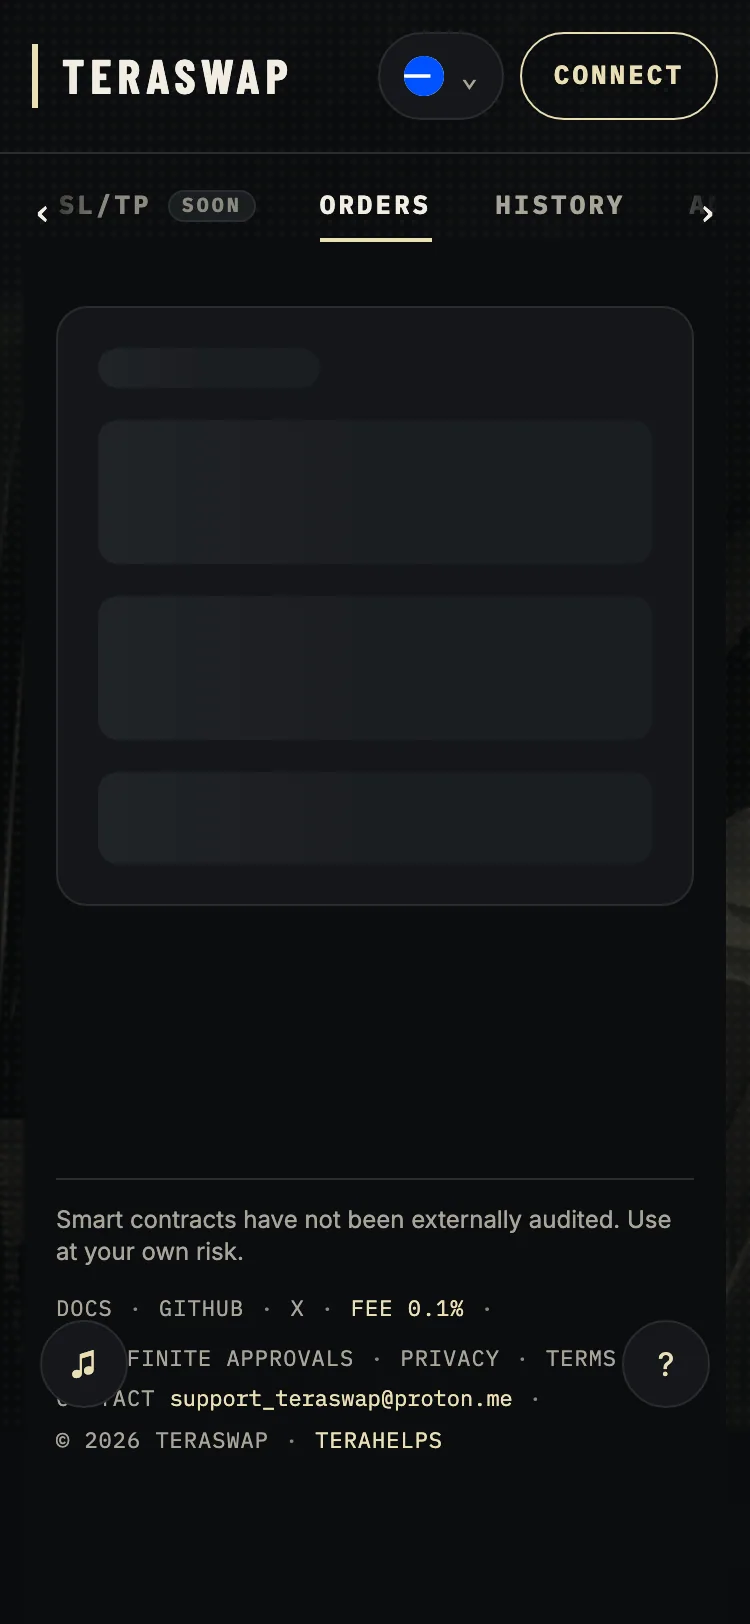
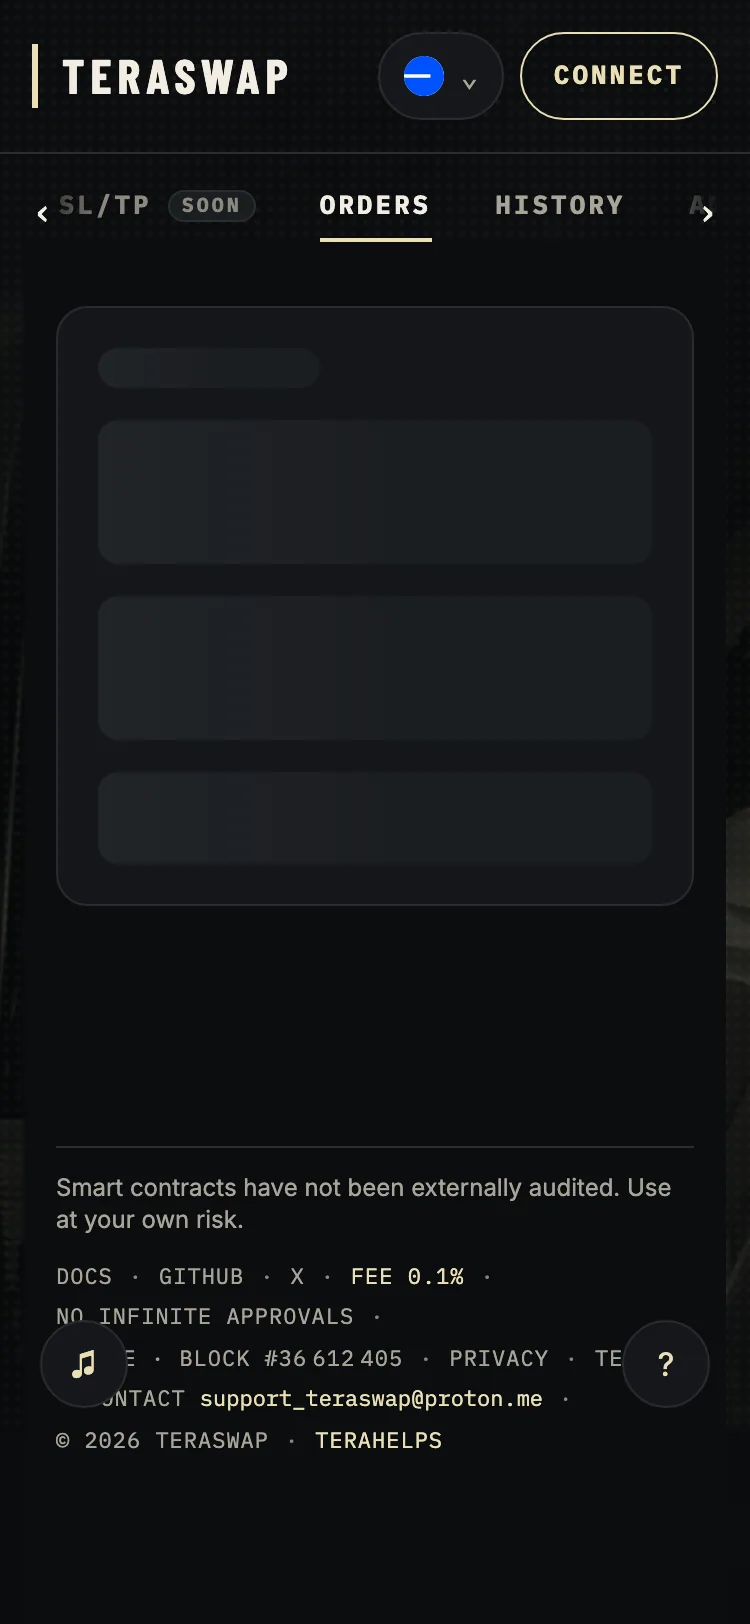
docs(feedback): one-screen feedback, Base/Arbitrum footer evidence, suite vs current origin/main
Feedback trimmed to one screen + content-map delta (decision log moved to feat-ui-v2-shell/NOTES.md).
Screenshots retaken so Base and Arbitrum show their own footer block (the earlier env hit v1's CSP connect-src).
Suite/lint/tsc now also run on origin/main 90eee44 and on its merge with this branch (334 files / 5263 tests).
Arbitrum DCA text: owner chose to derive from isDcaLive.

Changed region(s): [[0.0613, 0.7081, 0.8893, 0.8929]]

diff --git a/docs/feedback/feat-ui-v2-shell.md b/docs/feedback/feat-ui-v2-shell.md
@@ -1,45 +1,35 @@
 # feat/ui-v2-shell — FEEDBACK
-Off origin/main `d4b43db` (B0 #606 merged; `src/ui/v2/version.ts` present). Commits: `a0d2cf3` shell · `a7ac5c5` photos+fonts · `d9ef690` sounds+proxy+mobile · `7bc0079` footer/fab fix.
-- [x] C1 · [x] C2 · [x] C3 · [x] verify · [x] evidence 1–7 · Raw outputs + screenshots: `docs/feedback/feat-ui-v2-shell/`
+Off `d4b43db` (B0 merged). Commits `a0d2cf3` shell · `a7ac5c5` photos+fonts · `d9ef690` sounds+proxy+mobile · `7bc0079` fab fix. Files: `feat-ui-v2-shell/` (details: `NOTES.md`).
+- [x] C1 · [x] C2 · [x] C3 · [x] verify · [x] evidence 1–7
 
-## Owner answers (asked; supersede the goal text) and decisions
-- **Route file:** `/<tab>` → `/v2/<tab>` needs a page → ONE generic `src/app/v2/[tab]/page.tsx` (+test) added; the only file outside `src/ui/v2/**`/proxy/feedback.
-- **v1 proof = module-identical, not file-identical.** The shell shares wagmi/RainbowKit + v1 hooks (goal-mandated), so Turbopack regroups chunks.
-  Measured: 0 v2 markers in any chunk any static v1 page loads; v1 source diff empty; route table = base + `/v2/[tab]`; initial JS Δ ≤ +605 B raw /
-  +939 B gz per page (`/status`,`/admin` ±0). **Correction to my question:** I said "same modules" — precisely, 1–4 small modules (e.g. `ChainIcon`,
-  wagmi `useBlockNumber`) moved into initial chunk sets and some bodies re-concatenate (`v1-module-sets.txt`). File names differ → v1 users re-download.
-- **Arbitrum DCA is dark** → dropdown subtitle + Ethereum DCA gate are driven by `isDcaLive`/`dcaLiveChainNames()`: today Arbitrum "Swap", gate "DCA runs on Base."; flips to the spec text with no edit once live.
-- `useQuoteChainId` lives in `src/hooks/useChainId.ts`. Out-of-list reads (none edited): `app/{page,swap/page,providers,layout}`, `ChainSelector`, `ChainIcon`, `lib/{chains/registry,format,constants,help-content}`, `order-engine/limit-launch`, `useOrderNotifications`, `next.config.js`, `tailwind.v2.config.ts`.
-- Root `providers.tsx` also mounts v1 `ToastProvider` + `BackgroundMusic` around `/v2` → v2 ships its own toast provider (same API) + `music.ts`; v1's ♫ is hidden under v2 by aria-label selector (pinned by test).
+**Owner answers (supersede goal):** one route file `src/app/v2/[tab]/page.tsx` · v1 proof = module-identical (not byte) · Arbitrum text derives from `isDcaLive`.
 
-## Evidence
-1. **Screenshots** (prod build, gate on; RPC mocked with the pack's sample blocks; `*.webp` here): desktop `d1` header/tabs/footer · `d2` dropdown · `d3` tabs Ethereum (DCA gate) vs `d4` Base · `d5` Arbitrum · `d6` help · `d7` connect (RainbowKit themed); 375: `m1` `m2` dropdown `m3` Ethereum DCA `m4` active tab in view (scrollLeft 431/774, fully visible, fade L on / R off) `m5` Base `m6` footer `m7` help. Base/Arbitrum footer block did not render in this env (no reachable chain RPC → hidden, never mainnet's); per-chain block + explorer is unit-tested.
-2. **Content-map delta** below (v2 ⊇ v1 except landing-only nav and theme toggle, by design).
-3. **Photos** 4 × (AVIF+WebP)×(1080,1920) = 16 files, max 197 204 B (test ≤ 200 000 B; `underpass-1920.webp` 203 178 → 191 292 B re-encoded q70); `credits.json`: Evenden/Willbone/Dyllong/Gökdeniz, Pexels; `<picture>` AVIF + next/image WebP, eager+`fetchPriority=high` (next/image `priority` would preload the WebP, double download). Veil 0.45 / band 96 px tokens. Plates #0B0D0F@92%: body min 4.61 (dim on plate over white; 5.35 over graded photo), large min 6.54; hero text on photo 7.44 (`contrast-plates.txt`).
-4. **Fonts** `pyftsubset` (fontTools 4.62.1, venv outside repo, no dep; Sonatype MCP unreachable): Barlow Bold 104 316→16 180 B · Plex Regular 133 796→10 612 · Medium 134 956→10 608 · Bold 136 008→10 628 (509 076→48 028 B; all ≤ 60 KB).
-5. **Sound parity** (real `sounds.ts`, mocked `Audio`; `sound-parity-results.txt`): tab click = `playTouchMP3` (touch.mp3 0.5) · first click/key/scroll = `startBackgroundMusic` (0.08, loop, once) · ♫ off/on = `toggleBackgroundMusic` (pause / restart) · ♫ only toggles music (tab sound still plays muted) · help/network/connect = silent · waiting/quote-received/confirm/cancel not imported by the shell (B3/B5).
-6. **Proxy** 65 tests (matrix ×8 tabs: no env/forged/secret-less cookie → v1 untouched; env/valid cookie → `/v2/<tab>`; direct `/v2/*` → `/v2-disabled`). Real server, gate off: `/v2`, 8 × `/v2/<tab>`, `/v2/_kit`, forged cookie → **HTTP 404**; v1 `/ /swap /analytics /docs` 200, no v2 marker; gate on: 8 tab paths 200 (`proxy-404-proof.txt`). Caught by the build, not unit tests: `config.matcher` must be literals (spread rejected) → literal + drift test.
-7. **Verify** (vs merge-base build): suite 331 files / 5231 tests ✓ (base 323 / 5045) · lint 93 = 93 · tsc 0 · `npm run build` ✓ · `check:*` ×5 ✓ · `git diff --stat`: 57 files `src/ui/v2/**`, proxy(+test), `src/app/v2/[tab]` (owner-approved), feedback; nothing in v1. First parallel suite run hit one flaky `usePortfolio` test (passes 3/3 alone; 0 hook changes). Not run: Playwright e2e, security-review. Compare: https://github.com/TeraHashAlpha/teraswap/compare/main...feat/ui-v2-shell (no PR; CI runs once the owner opens it).
+1. **Screenshots** (`*.webp`; prod build, RPC mocked): desktop d1 header/tabs/footer, d2 dropdown, d3 Ethereum vs d4 Base tabs, d5 Arbitrum, d6 help, d7 connect;
+   375 m1–m7 (m4: active tab in view, scrollLeft 431/774, fade L on/R off). Footer block follows the selected chain: d1 `ETHEREUM · BLOCK #23 541 870`, d4 `BASE · …36 612 405`, d5 `ARBITRUM ONE · …389 204 117`.
+2. **Content-map delta** below: v2 ⊇ v1 except landing-only nav and the theme toggle (by design).
+3. **Photos** 16 files (4 × AVIF/WebP × 1080/1920), max 197 204 B, test ≤ 200 000 B; credits.json (Evenden, Willbone, Dyllong, Gökdeniz / Pexels).
+   Plates #0B0D0F@92%: body ≥ 4.61, large ≥ 6.54, hero on photo 7.44 (`contrast-plates.txt`). Veil 0.45 + band 96 px are tokens.
+4. **Fonts** `pyftsubset` (fontTools 4.62.1, outside repo): Barlow 104 316→16 180 B · Plex 133 796→10 612 · 134 956→10 608 · 136 008→10 628 (all ≤ 60 KB).
+5. **Sound parity** (real `sounds.ts`, mocked Audio): tab click=`playTouchMP3` · first click/key/scroll=`startBackgroundMusic` 0.08 loop · ♫=`toggleBackgroundMusic` only · others silent.
+6. **Proxy** 65 tests. Real server, gate off: `/v2`, 8×`/v2/<tab>`, `/v2/_kit`, forged cookie → **404**; v1 pages 200; gate on: 8 tab paths 200 (`proxy-404-proof.txt`).
+7. **Verify** vs origin/main `90eee44` (326 files/5077 tests): merged result 334/5263 ✓ clean merge · lint 93=93 · tsc 0 · `npm run build` ✓ · `check:*`×5 ✓ ·
+   diff: 57 files `src/ui/v2/**`, proxy(+test), `[tab]` route, feedback; nothing in v1. v1: 0 v2 code in v1 chunks, Δ initial JS ≤ +605 B (chunk names differ; `NOTES.md`).
+   Compare: https://github.com/TeraHashAlpha/teraswap/compare/main...feat/ui-v2-shell (no PR).
 
-## Concerns / owner notes
-- Shared hooks calling v1 `useToast` in v2 pages (B3+) show v1-styled toasts; use `useV2Toast`. `sounds.ts` has no "enabled" getter: opening v2 after muting on a v1 page shows ♫ "on" (display only).
-- Env (screenshots only): placeholder `NEXT_PUBLIC_*` (WC id, FeeCollectors, DCA flag, `.invalid` RPCs) at build; nothing committed. `next dev` rewrites `AGENTS.md`; restored, not committed.
-- New strings beyond pack/v1: aria-labels ("Turn music off/on", "Dismiss notification", "Open help", "Networks"). Pack's 2nd footer sentence ("Provided “as is”…"), 180 ms toast motion and "Meta-Aggregator" tagline (now sr-only) are open for the owner.
-- Dropdown shows v1's "Soon" chip for a chain without a FeeCollector (env-driven) — truthful in Preview envs lacking the Base/Arbitrum vars.
+Open for owner: pack's 2nd footer sentence · 180 vs 160 ms toast · tagline now sr-only · v1 `useToast` vs `useV2Toast` in B3+ (see `NOTES.md`).
 
 ## Content-map delta (v1 → v2)
-| v1 element (file) | v2 | Note |
-|---|---|---|
-| Logo "TERASWAP" + tagline "Meta-Aggregator" (Header) | logo link `/`, tagline `sr-only` | pack 01 has no visible tagline |
-| Landing nav Performance/Security/Experience/Features/Docs, mobile ☰, "My Analytics" (Header `showNav`, landing only) | not in app shell | landing header = later block; Analytics is a tab |
-| ThemeToggle | removed | dark only (D3) |
-| ChainSelector: icon, name, ▾, search, listbox, ✓, "Soon" chip, mobile sheet | NetworkMenu: icon, name, ⌄, subtitle, ✓, "Soon" chip | search removed (pack r3 A2) |
-| Connect / `displayName` + green dot | same; ENS or lowercase `0x…4`+`…`+4 | pack number spec |
-| WalletModal: ENS name/avatar, address+copy, balance, network, Connected via, Explorer/DeBank/Copy, Disconnect | AccountPanel: all of these; network = selected chain | v1 hardcodes "Ethereum Mainnet"; identicon ring + brand micro-footer dropped (decor) |
-| Footer: Docs · GitHub · X · Fee · No infinite approvals · `<chain> · Block #N` (explorer) · Privacy · Terms · Contact · © · TeraHelps · risk line | all present, same hrefs/aria; Contact shows the address; "Fee 0.1%" (no colon) | block = selected chain, 12 s poll, hidden tab paused |
-| Risk line | `Smart contracts have not been externally audited. Use at your own risk.` | verbatim, test = v1 const = literal |
-| ModeTabs 8 modes, "Soon" via `isLimitLive` | 8 tabs, "Soon" only Limit/SL-TP via `isLimitLive`; DCA never "Soon" | Ethereum DCA gate (pack 30a) |
-| BackgroundMusic ♫ (↔ ✕), HelpButton "?" + HelpDrawer (6 sections, X, support) | ♫ + "?" + drawer (same `helpSections`, pack labels "Email support"/"@TeraHash on X", search) | v1 ♫ hidden under v2 |
-| ToastProvider (5 types, 5-cap, Etherscan link) | V2ToastProvider (same API, max 3 visible per pack 05, chain-aware "View on explorer ↗") | |
-| NotificationBanner | NoticeBanner (same hook + copy) | |
-| BetaBanner / BetaDisclaimer | not carried | D2 no beta |
+| v1 | v2 |
+|---|---|
+| Logo + tagline "Meta-Aggregator" | logo link, tagline `sr-only` |
+| Landing nav (Performance…Docs, ☰, My Analytics) — landing only | not in shell (landing block; Analytics is a tab) |
+| ThemeToggle | removed (dark only) |
+| ChainSelector (icon, name, search, ✓, "Soon") | NetworkMenu (icon, name, subtitle, ✓, "Soon"); no search |
+| Connect / address pill | same; lowercase `0x…4`+`…`+4 |
+| WalletModal (ENS, address+copy, balance, network, via, Explorer/DeBank/Copy, Disconnect) | AccountPanel: all; network = selected chain; identicon ring dropped |
+| Footer: Docs·GitHub·X·Fee·No infinite approvals·`<chain> · Block #N`·Privacy·Terms·Contact·©·TeraHelps·risk line | all present (Contact shows address); risk line verbatim |
+| 8 ModeTabs, "Soon" via `isLimitLive` | 8 tabs; "Soon" only Limit/SL-TP; DCA never "Soon" + Ethereum gate |
+| ♫, "?" + HelpDrawer (6 sections, X, support) | ♫, "?", drawer (same `helpSections`, search, pack labels) |
+| ToastProvider (5 types, Etherscan link) | `V2ToastProvider` (same API, max 3, chain-aware link) |
+| NotificationBanner | NoticeBanner (same hook + copy) |
+| BetaBanner / BetaDisclaimer | not carried (no beta) |

diff --git a/docs/feedback/feat-ui-v2-shell/NOTES.md b/docs/feedback/feat-ui-v2-shell/NOTES.md
@@ -1,0 +1,31 @@
+# feat/ui-v2-shell — notes (appendix to ../feat-ui-v2-shell.md)
+
+## Owner answers (asked; supersede the goal text)
+- **Route file:** `/<tab>` → `/v2/<tab>` needs a page → ONE generic `src/app/v2/[tab]/page.tsx` (+test); only file outside `src/ui/v2/**`/proxy/feedback.
+- **v1 proof = module-identical, not file-identical.** The shell shares wagmi/RainbowKit + v1 hooks (goal-mandated), so Turbopack regroups chunks on every
+  static v1 page. Measured: 0 v2 markers in any v1-loaded chunk; v1 source diff empty; route table = base + `/v2/[tab]`; initial JS Δ ≤ +605 B raw /
+  +939 B gz per page (`/status`,`/admin` ±0). My question said "same modules"; precisely, 1–4 small modules (e.g. `ChainIcon`, wagmi `useBlockNumber`)
+  moved into initial chunk sets and some bodies re-concatenate (`v1-module-sets.txt`). File names differ → v1 users re-download those chunks.
+- **Arbitrum DCA is dark** (`isDcaLive(42161)` false). Asked: derive from `isDcaLive` (chosen) vs literal spec text. Today Arbitrum reads "Swap" and the
+  Ethereum gate "DCA runs on Base."; both become the spec text ("Swap · DCA", "…Base and Arbitrum One.") with no edit once its executor is live.
+
+## Decisions / reads
+- `useQuoteChainId` is in `src/hooks/useChainId.ts`. Out-of-list reads (none edited): `app/{page,swap/page,providers,layout}`, `ChainSelector`, `ChainIcon`,
+  `lib/{chains/registry,format,constants,help-content}`, `order-engine/limit-launch`, `useOrderNotifications`, `next.config.js`, `tailwind.v2.config.ts`.
+- Root `providers.tsx` also mounts v1 `ToastProvider` + `BackgroundMusic` around `/v2` → v2 has its own toast provider (same API) + `music.ts`; v1's ♫ is
+  hidden under v2 by an aria-label CSS selector (pinned by test); the v2 ♫ `stopPropagation`s so v1's first-interaction listener can't un-mute it.
+- Photos: `underpass-1920.webp` 203 178 B re-encoded to 191 292 B (strict 200 000 B). Only the 4 photos the tabs use ship. next/image `priority` not used
+  (its preload targets the WebP `<img>` while AVIF browsers take the `<source>` → double hero download) → `<picture>` + eager + `fetchPriority=high`.
+- Fonts: `pyftsubset` from a venv outside the repo (no dependency); Sonatype Guide MCP was unreachable (401) so the pre-install check could not run.
+- `config.matcher` must be string literals (Turbopack rejects a spread; unit tests did not catch it, `npm run build` did) → literal + drift test.
+- Screenshots: placeholder `NEXT_PUBLIC_*` at build (WC id, FeeCollectors, DCA flag, `*.alchemy.com`-host RPCs); RPC answered by a Playwright mock with the pack's sample
+  block numbers. v1's CSP `connect-src` blocks v1's default public Base/Arbitrum RPCs (pre-existing; prod sets an allowed `*.alchemy.com` URL) — my first screenshots
+  missed the Base/Arbitrum footer block for that reason, not a v2 bug. `next dev` rewrites `AGENTS.md` (restored, never committed).
+
+## Concerns
+- Shared v1 hooks that call v1 `useToast` in v2 pages (B3+) show v1-styled toasts; use `useV2Toast`. `sounds.ts` has no "enabled" getter: opening v2 after muting
+  on a v1 page shows ♫ "on" (display only).
+- New strings beyond pack/v1: aria-labels ("Turn music off/on", "Dismiss notification", "Open help", "Networks"). Pack's 2nd footer sentence ("Provided “as is”…"),
+  the 180 ms toast motion (token is 160 ms) and the "Meta-Aggregator" tagline (now sr-only) are open for the owner.
+- Dropdown shows v1's "Soon" chip for a chain without a FeeCollector (env-driven).
+- Not run: Playwright e2e, security-review plugin. First parallel suite run hit one flaky `usePortfolio` test (3/3 green alone; no hook changes).
